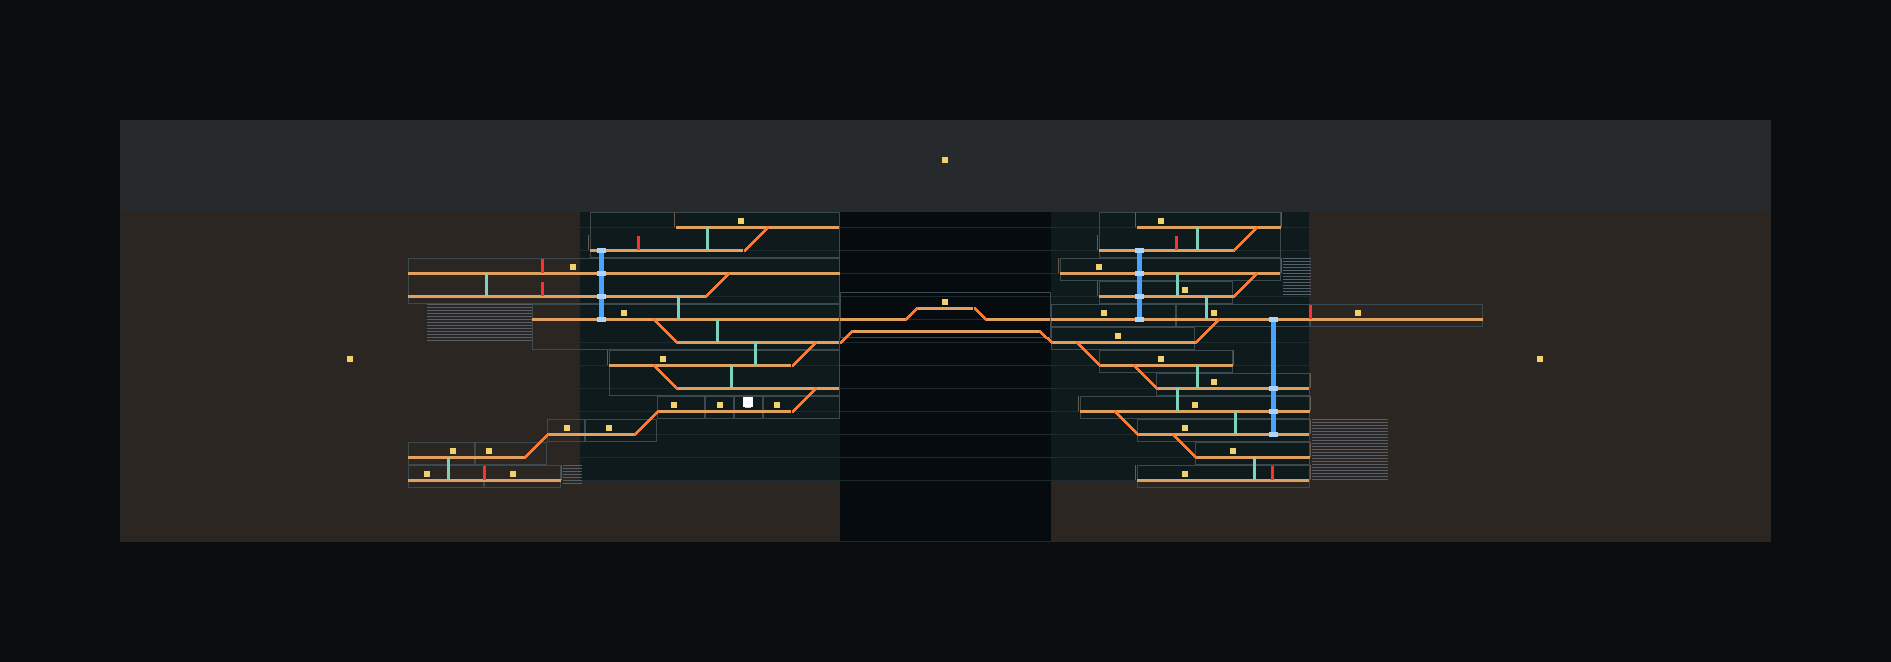
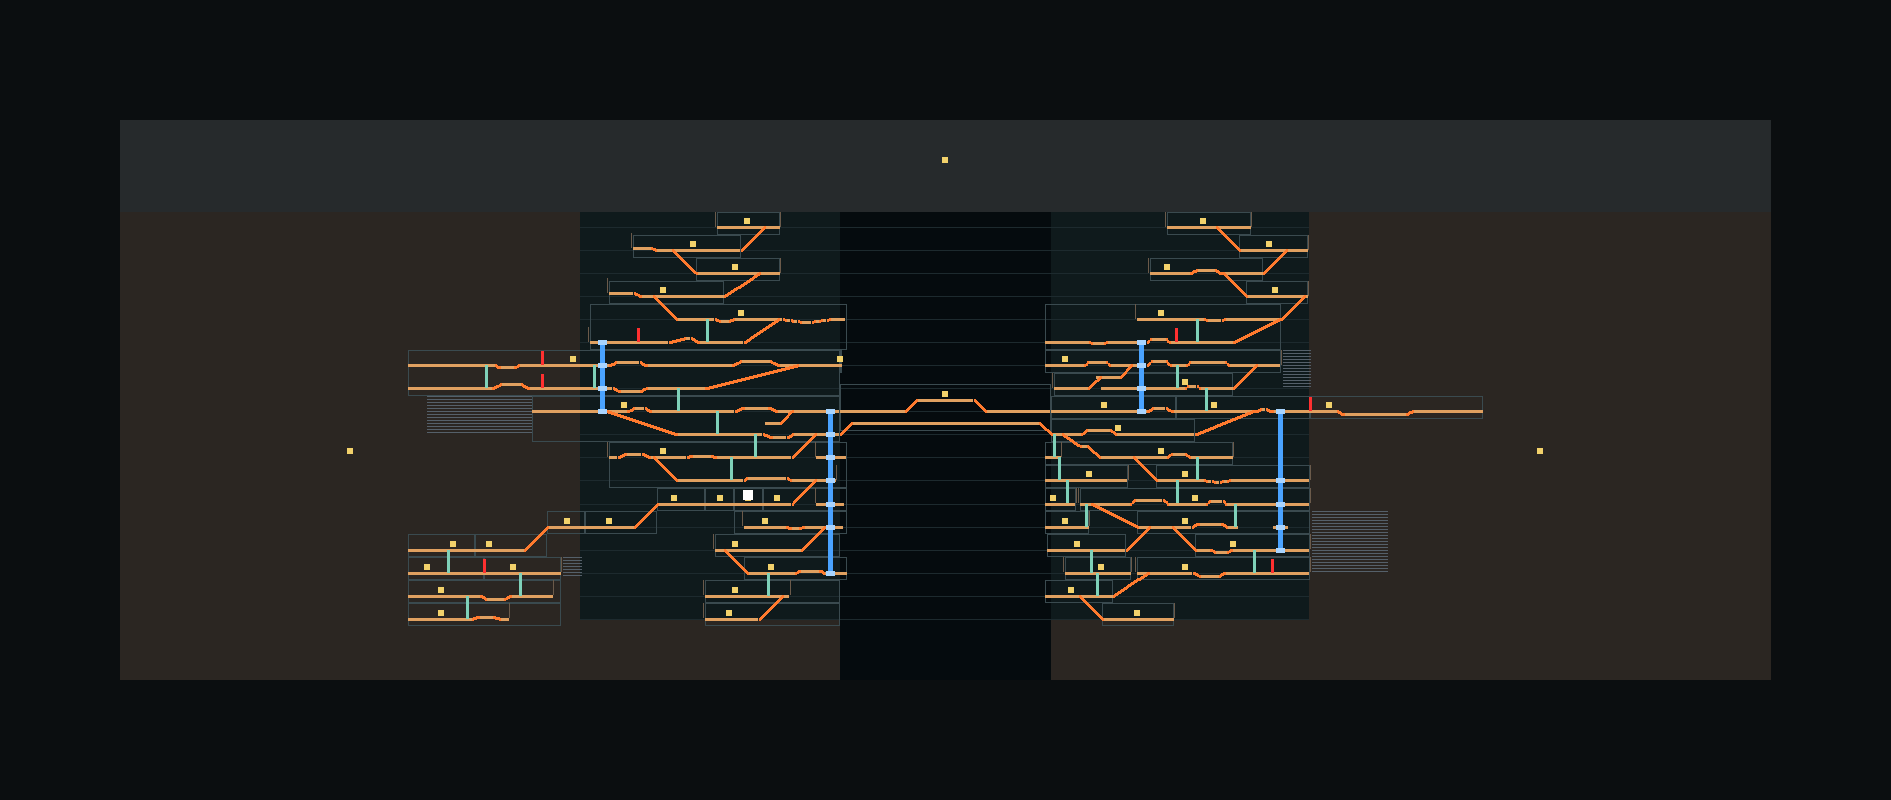
Add the Pulse at Mid Heart and dress the Cistern with a pump house, valves and a freight landing.
The Pulse stands on the Ritual Raft with indicator lamps that follow the civic phase. The Cistern gains a pump house facade, pumps, valve wheels, gauges and freight props, all under the dress lint.

diff --git a/docs/hollow-space-review.md b/docs/hollow-space-review.md
@@ -87,4 +87,8 @@ User decisions (also `art-direction.md` 24): growth is both new rooms (from the 
 
 Built (AI): the basin chamber `H_CI` (x 8096..9248, levels 11-14) now holds three full-height pressure tanks with sight glasses, headers and risers (`hollow_cistern_view.gd`, back layer, no collision). The fill follows the Cistern's condition through `EventBus.district_changed` (comfortable 0.9, stable 0.75, strained 0.5, shortage 0.3, critical 0.12: display values, not simulation). Test: `tests/test_hollow_cistern_view.gd`.
 
-Not built yet: widening the basin west into the east cliff, galleries and pump rooms around it, reserve growth rooms, the Mid Heart / Pulse hall shape, and annexes for the other empty spans.
+Also built (AI): the Pulse on the Ritual Raft (`hollow_pulse_view.gd`, x 2720..3680 at the Ritual deck): a tall degraded drum of housings, conduits, vents, two gauges, mismatched repair plates, grime and fungal growth, no runes. Eight indicator lamps follow the civic phase from `Clock` (rousing 2 lit, working 6, gathering 8, ritual 8 bright); it is a timekeeper only and implies nothing about its OPEN original function. Back layer, no collision. Test: `tests/test_hollow_pulse_view.gd`.
+
+Cistern dressing (AI, 2026-10-03): a pump house facade on the Cistern core street (`pump_house`, x 6704..6960, level 13) with two pumps, valve wheels, a gauge and a pipe run, more valves and notices on the balcony east of it, a freight landing with carts, crates, a rack and a notice (`cistern_freight`), a pump and gauge on the tanks street, and a warning sign and rubble at the Seep. New prop kinds `pump` and `valve_wheel` in `hollow_dressing.gd` / `hollow_dressing_view.gd`; 23 props, 8 lamps, 1 building, all under the lint `dress` rule. Pure data: no map geometry changed. The existing basin galleries are the four streets that already cross the chamber (levels 11-13 plus the floor at 14).
+
+Not built yet: widening the basin west into the east cliff, galleries and pump rooms around it, reserve growth rooms, a roofed or tall hall shape around the Pulse, and annexes for the other empty spans.
